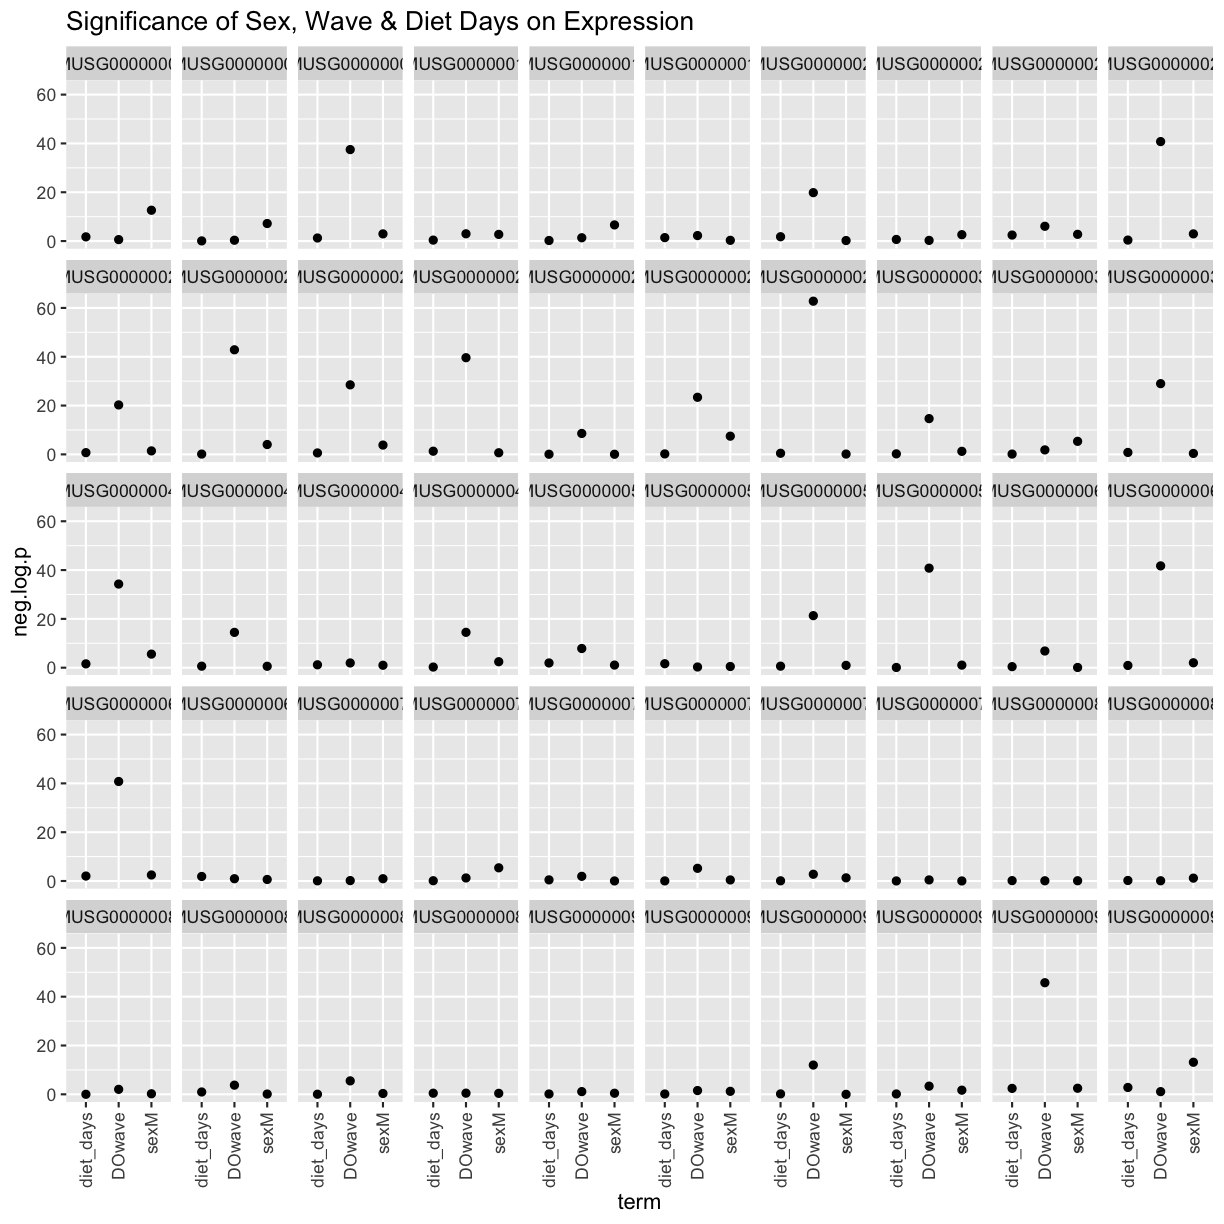
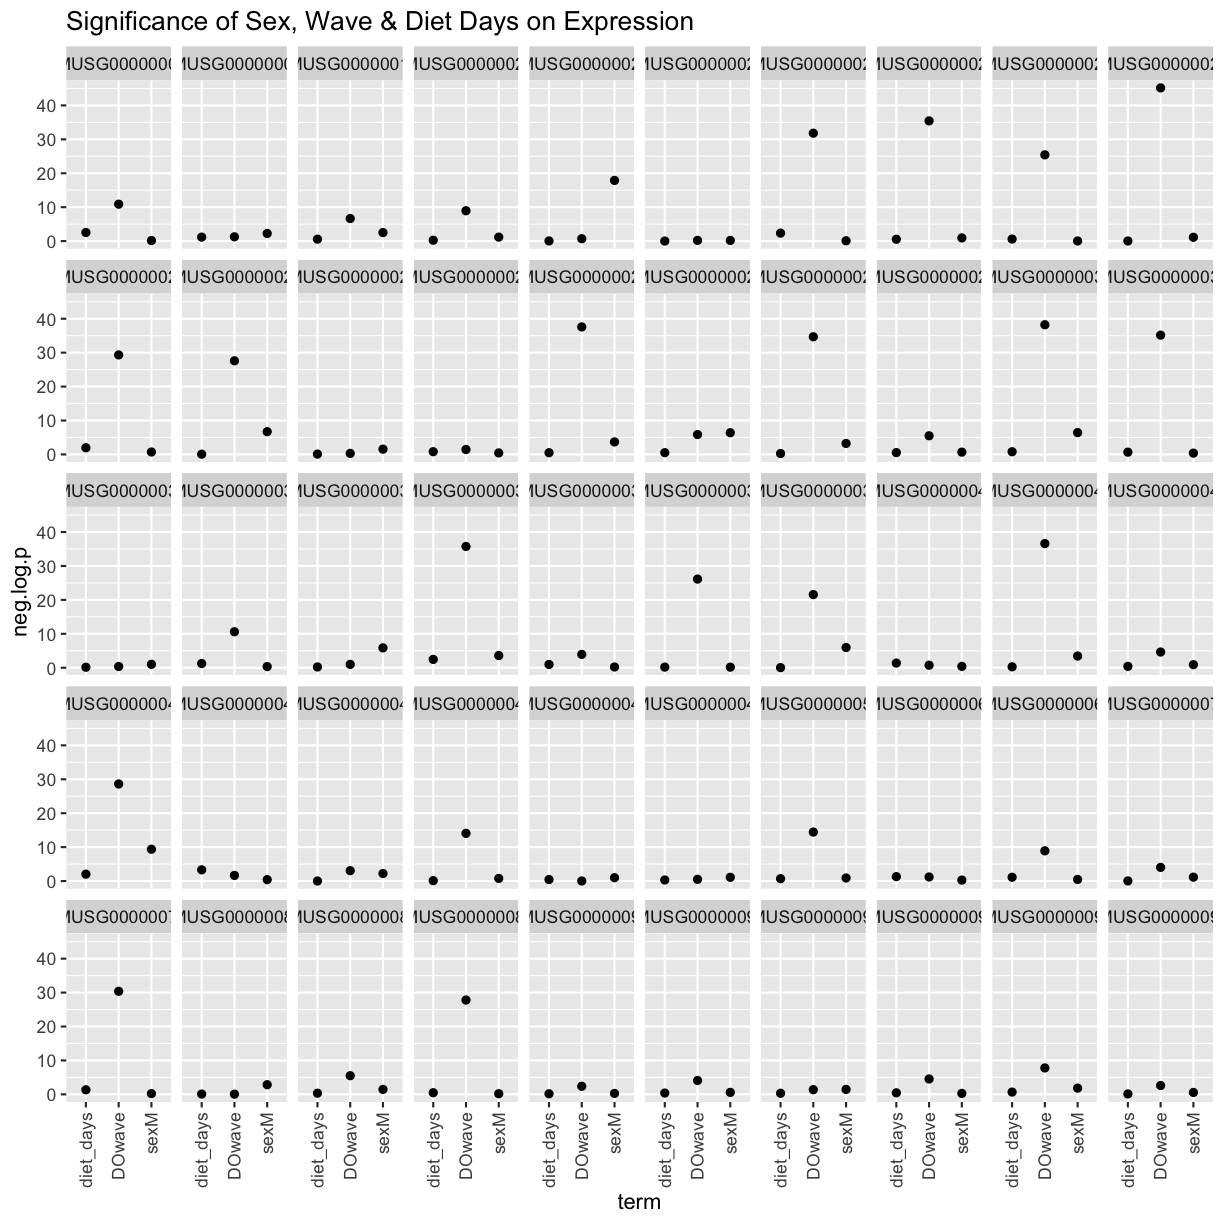
updating lesson 6 VIII

diff --git a/_episodes/06-map-many-eqtls.md b/_episodes/06-map-many-eqtls.md
@@ -66,65 +66,65 @@ sams <- sample(length(genes), 50, replace = FALSE, prob = NULL)
 genes <- genes[sams]
 
 gene.info <- dataset.islet.rnaseq$annots[genes,]
-rownames = NULL
+rownames(gene.info) = NULL
 kable(gene.info)
 ~~~
 {: .language-r}
 
 
 
-|                   |gene_id            |symbol        |chr |      start|        end| strand|     middle|nearest.marker.id |biotype              |module        |hotspot |
-|:------------------|:------------------|:-------------|:---|----------:|----------:|------:|----------:|:-----------------|:--------------------|:-------------|:-------|
-|ENSMUSG00000028256 |ENSMUSG00000028256 |Odf2l         |3   | 145.118589| 145.153915|      1| 145.136252|3_145121769       |protein_coding       |green         |NA      |
-|ENSMUSG00000021990 |ENSMUSG00000021990 |Spata13       |14  |  60.634001|  60.764556|      1|  60.699278|14_60705905       |protein_coding       |red           |NA      |
-|ENSMUSG00000025195 |ENSMUSG00000025195 |Dnmbp         |19  |  43.847967|  43.912392|     -1|  43.880180|19_43877848       |protein_coding       |darkturquoise |NA      |
-|ENSMUSG00000052056 |ENSMUSG00000052056 |Zfp217        |2   | 170.108643| 170.148103|     -1| 170.128373|2_170118266       |protein_coding       |magenta       |NA      |
-|ENSMUSG00000090487 |ENSMUSG00000090487 |Gm2888        |14  |   3.030002|   3.038762|      1|   3.034382|14_3040840        |protein_coding       |plum1         |NA      |
-|ENSMUSG00000019772 |ENSMUSG00000019772 |Vip           |10  |   5.639218|   5.647614|      1|   5.643416|10_5637668        |protein_coding       |paleturquoise |NA      |
-|ENSMUSG00000045114 |ENSMUSG00000045114 |Prrt2         |7   | 127.016771| 127.021211|     -1| 127.018991|7_127066421       |protein_coding       |grey          |NA      |
-|ENSMUSG00000097203 |ENSMUSG00000097203 |4732419C18Rik |8   | 123.744631| 123.754228|     -1| 123.749430|8_123694905       |lincRNA              |greenyellow   |NA      |
-|ENSMUSG00000042508 |ENSMUSG00000042508 |Dmtf1         |5   |   9.118801|   9.161776|     -1|   9.140288|5_9151068         |protein_coding       |brown         |NA      |
-|ENSMUSG00000023025 |ENSMUSG00000023025 |Larp4         |15  |  99.970074| 100.016351|      1|  99.993212|15_100012596      |protein_coding       |darkgreen     |NA      |
-|ENSMUSG00000064263 |ENSMUSG00000064263 |Gm1631        |2   |  71.719417|  71.730966|      1|  71.725192|2_71683802        |protein_coding       |grey          |NA      |
-|ENSMUSG00000083011 |ENSMUSG00000083011 |Gm12816       |4   | 112.955075| 112.956286|     -1| 112.955680|4_112905586       |pseudogene           |grey          |NA      |
-|ENSMUSG00000083339 |ENSMUSG00000083339 |Gm11693       |11  | 113.678530| 113.679331|      1| 113.678930|11_113679730      |pseudogene           |grey          |NA      |
-|ENSMUSG00000081929 |ENSMUSG00000081929 |Rps11-ps2     |11  | 116.382750| 116.383205|      1| 116.382978|11_116377446      |pseudogene           |grey          |NA      |
-|ENSMUSG00000090555 |ENSMUSG00000090555 |Gm8893        |12  | 103.817856| 103.822243|     -1| 103.820050|12_103826618      |pseudogene           |grey          |NA      |
-|ENSMUSG00000006019 |ENSMUSG00000006019 |Dhx34         |7   |  16.197147|  16.222037|     -1|  16.209592|7_16210236        |protein_coding       |black         |NA      |
-|ENSMUSG00000078601 |ENSMUSG00000078601 |Gm12525       |3   | 108.361551| 108.362256|      1| 108.361904|3_108353179       |antisense            |grey          |NA      |
-|ENSMUSG00000078952 |ENSMUSG00000078952 |Gm2373        |13  |  97.434970|  97.497007|      1|  97.465988|13_97466637       |lincRNA              |grey          |NA      |
-|ENSMUSG00000018845 |ENSMUSG00000018845 |Unc45b        |11  |  82.910550|  82.943403|      1|  82.926976|11_82833747       |protein_coding       |grey          |NA      |
-|ENSMUSG00000028137 |ENSMUSG00000028137 |Celf3         |3   |  94.478831|  94.492193|      1|  94.485512|3_94429795        |protein_coding       |black         |NA      |
-|ENSMUSG00000031270 |ENSMUSG00000031270 |4930513O06Rik |X   | 139.086243| 139.093405|      1| 139.089824|X_139084893       |protein_coding       |brown         |NA      |
-|ENSMUSG00000091423 |ENSMUSG00000091423 |Gm17509       |13  | 117.218701| 117.221075|     -1| 117.219888|13_117256471      |protein_coding       |grey          |NA      |
-|ENSMUSG00000070304 |ENSMUSG00000070304 |Scn2b         |9   |  45.117876|  45.130070|      1|  45.123973|9_45128094        |protein_coding       |grey          |NA      |
-|ENSMUSG00000019820 |ENSMUSG00000019820 |Utrn          |10  |  12.382188|  12.861735|     -1|  12.621962|10_12635805       |protein_coding       |saddlebrown   |NA      |
-|ENSMUSG00000062753 |ENSMUSG00000062753 |AI413582      |17  |  27.563575|  27.565749|     -1|  27.564662|17_27566804       |protein_coding       |red           |NA      |
-|ENSMUSG00000057672 |ENSMUSG00000057672 |Pkn1          |8   |  83.669762|  83.699179|     -1|  83.684470|8_83587702        |protein_coding       |black         |NA      |
-|ENSMUSG00000095601 |ENSMUSG00000095601 |Gm21085       |X   |  37.380028|  37.384493|      1|  37.382260|X_37366530        |protein_coding       |grey          |NA      |
-|ENSMUSG00000086794 |ENSMUSG00000086794 |Gm11642       |11  | 103.723950| 103.724532|      1| 103.724241|11_103724029      |processed_transcript |grey          |NA      |
-|ENSMUSG00000060467 |ENSMUSG00000060467 |Gm10080       |9   |  44.374595|  44.375209|     -1|  44.374902|9_44362716        |pseudogene           |grey          |NA      |
-|ENSMUSG00000022174 |ENSMUSG00000022174 |Dad1          |14  |  54.235479|  54.254104|     -1|  54.244792|14_54244226       |protein_coding       |blue          |NA      |
-|ENSMUSG00000020170 |ENSMUSG00000020170 |Frs2          |10  | 117.070129| 117.148474|     -1| 117.109302|10_117122171      |protein_coding       |saddlebrown   |NA      |
-|ENSMUSG00000029512 |ENSMUSG00000029512 |Ulk1          |5   | 110.784488| 110.810097|     -1| 110.797292|5_110843597       |protein_coding       |yellow        |NA      |
-|ENSMUSG00000000296 |ENSMUSG00000000296 |Tpd52l1       |10  |  31.332380|  31.445921|     -1|  31.389150|10_31301766       |protein_coding       |brown         |NA      |
-|ENSMUSG00000039233 |ENSMUSG00000039233 |Tbce          |13  |  13.997949|  14.039638|     -1|  14.018794|13_14120641       |protein_coding       |grey          |NA      |
-|ENSMUSG00000027361 |ENSMUSG00000027361 |Gabpb1        |2   | 126.627442| 126.676337|     -1| 126.651890|2_126678042       |protein_coding       |turquoise     |NA      |
-|ENSMUSG00000029780 |ENSMUSG00000029780 |Nt5c3         |6   |  56.882400|  56.923932|     -1|  56.903166|6_56826266        |protein_coding       |magenta       |NA      |
-|ENSMUSG00000030324 |ENSMUSG00000030324 |Rho           |6   | 115.931927| 115.938829|      1| 115.935378|6_116075585       |protein_coding       |darkred       |NA      |
-|ENSMUSG00000052423 |ENSMUSG00000052423 |B4galt3       |1   | 171.270328| 171.276896|      1| 171.273612|1_171295194       |protein_coding       |black         |NA      |
-|ENSMUSG00000096370 |ENSMUSG00000096370 |Gm21992       |19  |   4.742913|   4.811612|     -1|   4.777262|19_4628265        |protein_coding       |blue          |NA      |
-|ENSMUSG00000000056 |ENSMUSG00000000056 |Narf          |11  | 121.237253| 121.255856|      1| 121.246554|11_121200487      |protein_coding       |brown         |NA      |
-|ENSMUSG00000046167 |ENSMUSG00000046167 |Gldn          |9   |  54.286486|  54.341786|      1|  54.314136|9_54291137        |protein_coding       |grey          |NA      |
-|ENSMUSG00000062044 |ENSMUSG00000062044 |Lmtk3         |7   |  45.783738|  45.804144|      1|  45.793941|7_45720922        |protein_coding       |yellow        |NA      |
-|ENSMUSG00000046719 |ENSMUSG00000046719 |Nxph3         |11  |  95.509845|  95.514570|     -1|  95.512208|11_95489858       |protein_coding       |red           |NA      |
-|ENSMUSG00000079639 |ENSMUSG00000079639 |Rhox4a        |X   |  37.265338|  37.270136|      1|  37.267737|X_37171167        |protein_coding       |grey          |NA      |
-|ENSMUSG00000052392 |ENSMUSG00000052392 |Acot4         |12  |  84.038379|  84.044723|      1|  84.041551|12_84015575       |protein_coding       |grey          |chr2    |
-|ENSMUSG00000083483 |ENSMUSG00000083483 |Gm14044       |2   | 130.384883| 130.385329|     -1| 130.385106|2_130349094       |pseudogene           |grey          |NA      |
-|ENSMUSG00000078932 |ENSMUSG00000078932 |CN725425      |15  |  91.231578|  91.260885|      1|  91.246232|15_91251706       |protein_coding       |grey          |NA      |
-|ENSMUSG00000074796 |ENSMUSG00000074796 |Slc4a11       |2   | 130.684113| 130.697519|     -1| 130.690816|2_130559955       |protein_coding       |red           |NA      |
-|ENSMUSG00000084221 |ENSMUSG00000084221 |Hmgb1-ps4     |19  |   6.592602|   6.593236|     -1|   6.592919|19_6545203        |pseudogene           |grey          |NA      |
-|ENSMUSG00000028270 |ENSMUSG00000028270 |Gbp2          |3   | 142.620602| 142.638008|      1| 142.629305|3_142705784       |protein_coding       |magenta       |NA      |
+|gene_id            |symbol        |chr |      start|        end| strand|     middle|nearest.marker.id |biotype              |module         |hotspot |
+|:------------------|:-------------|:---|----------:|----------:|------:|----------:|:-----------------|:--------------------|:--------------|:-------|
+|ENSMUSG00000048865 |Arhgap30      |1   | 171.388954| 171.410298|      1| 171.399626|1_171385294       |protein_coding       |darkorange     |NA      |
+|ENSMUSG00000035910 |Dcdc2a        |13  |  25.056004|  25.210706|      1|  25.133355|13_25119107       |protein_coding       |brown          |chr7    |
+|ENSMUSG00000022536 |Glyr1         |16  |   5.013906|   5.049910|     -1|   5.031908|16_5060435        |protein_coding       |yellow         |NA      |
+|ENSMUSG00000014980 |Tsen15        |1   | 152.370735| 152.386688|     -1| 152.378712|1_152383052       |protein_coding       |turquoise      |NA      |
+|ENSMUSG00000022668 |Gtpbp8        |16  |  44.736768|  44.746363|     -1|  44.741566|16_44738910       |protein_coding       |green          |NA      |
+|ENSMUSG00000086968 |4933431E20Rik |3   | 107.888850| 107.896213|     -1| 107.892532|3_107868965       |processed_transcript |grey           |NA      |
+|ENSMUSG00000027720 |Il2           |3   |  37.120523|  37.125959|     -1|  37.123241|3_37117746        |protein_coding       |grey           |NA      |
+|ENSMUSG00000044948 |Wdr96         |19  |  47.737561|  47.919287|     -1|  47.828424|19_47839103       |protein_coding       |grey           |NA      |
+|ENSMUSG00000027570 |Col9a3        |2   | 180.597790| 180.622189|      1| 180.609990|2_180571050       |protein_coding       |magenta        |NA      |
+|ENSMUSG00000068015 |Lrch1         |14  |  74.754674|  74.947877|     -1|  74.851276|14_74853309       |protein_coding       |skyblue3       |NA      |
+|ENSMUSG00000021749 |Oit1          |14  |   8.348948|   8.378763|     -1|   8.363856|14_8142958        |protein_coding       |yellowgreen    |NA      |
+|ENSMUSG00000026103 |Gls           |1   |  52.163448|  52.233232|     -1|  52.198340|1_52214099        |protein_coding       |turquoise      |NA      |
+|ENSMUSG00000091277 |Gm1818        |12  |  48.554182|  48.559971|     -1|  48.557076|12_48556291       |protein_coding       |grey           |NA      |
+|ENSMUSG00000028882 |Ppp1r8        |4   | 132.826929| 132.843169|     -1| 132.835049|4_132829993       |protein_coding       |turquoise      |NA      |
+|ENSMUSG00000027506 |Tpd52         |3   |   8.928626|   9.004723|     -1|   8.966674|3_8963976         |protein_coding       |darkgreen      |NA      |
+|ENSMUSG00000037577 |Ephx3         |17  |  32.183770|  32.189549|     -1|  32.186660|17_32195476       |protein_coding       |yellow         |NA      |
+|ENSMUSG00000022565 |Plec          |15  |  76.170974|  76.232574|     -1|  76.201774|15_76166226       |protein_coding       |midnightblue   |NA      |
+|ENSMUSG00000032551 |1110059G10Rik |9   | 122.945089| 122.951000|     -1| 122.948044|9_122947512       |protein_coding       |turquoise      |NA      |
+|ENSMUSG00000028988 |Ctnnbip1      |4   | 149.518236| 149.566437|      1| 149.542336|4_149549101       |protein_coding       |grey60         |NA      |
+|ENSMUSG00000029632 |Ndufa4        |6   |  11.900373|  11.907446|     -1|  11.903910|6_11911091        |protein_coding       |grey           |NA      |
+|ENSMUSG00000040697 |Dnajc16       |4   | 141.760189| 141.790931|     -1| 141.775560|4_141789962       |protein_coding       |darkturquoise  |NA      |
+|ENSMUSG00000021250 |Fos           |12  |  85.473890|  85.477273|      1|  85.475582|12_85483011       |protein_coding       |darkolivegreen |NA      |
+|ENSMUSG00000074800 |Gm4149        |13  |  75.644864|  75.645226|      1|  75.645045|13_75598665       |pseudogene           |grey           |NA      |
+|ENSMUSG00000022449 |Adamts20      |15  |  94.270163|  94.465418|     -1|  94.367790|15_94372429       |protein_coding       |grey           |NA      |
+|ENSMUSG00000006301 |Tmbim1        |1   |  74.288247|  74.305622|     -1|  74.296934|1_74253876        |protein_coding       |grey           |NA      |
+|ENSMUSG00000096183 |Gm3727        |14  |   7.255889|   7.264714|     -1|   7.260302|14_7247401        |protein_coding       |grey           |NA      |
+|ENSMUSG00000036390 |Gadd45a       |6   |  67.035096|  67.037457|     -1|  67.036276|6_67037091        |protein_coding       |lightgreen     |NA      |
+|ENSMUSG00000037652 |Phc3          |3   |  30.899295|  30.969415|     -1|  30.934355|3_30935517        |protein_coding       |pink           |NA      |
+|ENSMUSG00000087679 |C330006A16Rik |2   |  26.136814|  26.140521|     -1|  26.138668|2_26091626        |lincRNA              |black          |NA      |
+|ENSMUSG00000086391 |1700042O10Rik |11  |  11.868123|  11.885321|      1|  11.876722|11_11852460       |antisense            |grey           |NA      |
+|ENSMUSG00000039116 |Gpr126        |10  |  14.402585|  14.545036|     -1|  14.473810|10_14453739       |protein_coding       |cyan           |NA      |
+|ENSMUSG00000039713 |Plekhg5       |4   | 152.072498| 152.115400|      1| 152.093949|4_152082355       |protein_coding       |purple         |NA      |
+|ENSMUSG00000039682 |Lap3          |5   |  45.493374|  45.512674|      1|  45.503024|5_45529351        |protein_coding       |salmon         |NA      |
+|ENSMUSG00000091844 |Gm8251        |1   |  44.055952|  44.061936|     -1|  44.058944|1_44093079        |protein_coding       |grey           |NA      |
+|ENSMUSG00000042737 |Dpm3          |3   |  89.259358|  89.267079|      1|  89.263218|3_89265523        |protein_coding       |yellow         |NA      |
+|ENSMUSG00000052310 |Slc39a1       |3   |  90.248172|  90.253612|      1|  90.250892|3_90257553        |protein_coding       |royalblue      |chr13   |
+|ENSMUSG00000097321 |1700028E10Rik |5   | 151.368709| 151.414083|      1| 151.391396|5_151520204       |lincRNA              |grey           |NA      |
+|ENSMUSG00000060044 |Tmem26        |10  |  68.723746|  68.782654|      1|  68.753200|10_68735167       |protein_coding       |grey           |NA      |
+|ENSMUSG00000044676 |Zfp612        |8   | 110.079764| 110.090181|      1| 110.084972|8_110136810       |protein_coding       |lightgreen     |NA      |
+|ENSMUSG00000040712 |Camta2        |11  |  70.669463|  70.688105|     -1|  70.678784|11_70661194       |protein_coding       |black          |NA      |
+|ENSMUSG00000046753 |Ccdc66        |14  |  27.482412|  27.508460|     -1|  27.495436|14_27610895       |protein_coding       |pink           |NA      |
+|ENSMUSG00000022656 |Pvrl3         |16  |  46.387706|  46.498525|     -1|  46.443116|16_46416309       |protein_coding       |turquoise      |NA      |
+|ENSMUSG00000097610 |A930012L18Rik |18  |  44.661665|  44.676271|      1|  44.668968|18_44532060       |lincRNA              |grey           |NA      |
+|ENSMUSG00000071519 |Prss3         |6   |  41.373795|  41.377678|     -1|  41.375736|6_41406513        |protein_coding       |darkgrey       |NA      |
+|ENSMUSG00000048701 |Ccdc6         |10  |  70.097121|  70.193200|      1|  70.145160|10_70202299       |protein_coding       |grey           |NA      |
+|ENSMUSG00000094574 |Gm15027       |X   |  13.179443|  13.179580|      1|  13.179512|X_13155556        |pseudogene           |grey           |NA      |
+|ENSMUSG00000000168 |Dlat          |9   |  50.634633|  50.659780|     -1|  50.647206|9_50632541        |protein_coding       |grey           |NA      |
+|ENSMUSG00000041073 |Nacad         |11  |   6.597823|   6.606053|     -1|   6.601938|11_6600691        |protein_coding       |purple         |NA      |
+|ENSMUSG00000029250 |Polr2b        |5   |  77.310147|  77.349324|      1|  77.329736|5_77264293        |protein_coding       |turquoise      |NA      |
+|ENSMUSG00000030031 |Kbtbd8        |6   |  95.117240|  95.129718|      1|  95.123479|6_95084044        |protein_coding       |turquoise      |NA      |
 
 ### Expression Data
 
@@ -192,18 +192,18 @@ tmp
 ~~~
 # A tibble: 200 × 8
 # Groups:   expression [50]
-   expression         data     model  term     estimate std.e…¹ stati…²  p.value
-   <chr>              <list>   <list> <chr>       <dbl>   <dbl>   <dbl>    <dbl>
- 1 ENSMUSG00000028256 <tibble> <lm>   (Interc…  0.459   0.491     0.935 3.51e- 1
- 2 ENSMUSG00000028256 <tibble> <lm>   sexM     -0.0991  0.0801   -1.24  2.17e- 1
- 3 ENSMUSG00000028256 <tibble> <lm>   DOwave   -0.542   0.0360  -15.0   2.47e-40
- 4 ENSMUSG00000028256 <tibble> <lm>   diet_da…  0.00740 0.00375   1.97  4.95e- 2
- 5 ENSMUSG00000021990 <tibble> <lm>   (Interc…  0.818   0.607     1.35  1.79e- 1
- 6 ENSMUSG00000021990 <tibble> <lm>   sexM     -0.302   0.0989   -3.05  2.43e- 3
- 7 ENSMUSG00000021990 <tibble> <lm>   DOwave    0.0281  0.0445    0.631 5.28e- 1
- 8 ENSMUSG00000021990 <tibble> <lm>   diet_da… -0.00574 0.00464  -1.24  2.17e- 1
- 9 ENSMUSG00000025195 <tibble> <lm>   (Interc… -1.80    0.551    -3.27  1.19e- 3
-10 ENSMUSG00000025195 <tibble> <lm>   sexM      0.188   0.0898    2.09  3.73e- 2
+   expression         data     model  term      estimate std.e…¹ stati…² p.value
+   <chr>              <list>   <list> <chr>        <dbl>   <dbl>   <dbl>   <dbl>
+ 1 ENSMUSG00000048865 <tibble> <lm>   (Interce…  0.628   0.620     1.01   0.311 
+ 2 ENSMUSG00000048865 <tibble> <lm>   sexM      -0.178   0.101    -1.76   0.0791
+ 3 ENSMUSG00000048865 <tibble> <lm>   DOwave    -0.0464  0.0454   -1.02   0.308 
+ 4 ENSMUSG00000048865 <tibble> <lm>   diet_days -0.00327 0.00474  -0.690  0.491 
+ 5 ENSMUSG00000035910 <tibble> <lm>   (Interce…  0.227   0.616     0.369  0.713 
+ 6 ENSMUSG00000035910 <tibble> <lm>   sexM       0.167   0.100     1.66   0.0972
+ 7 ENSMUSG00000035910 <tibble> <lm>   DOwave    -0.0359  0.0451   -0.795  0.427 
+ 8 ENSMUSG00000035910 <tibble> <lm>   diet_days -0.00172 0.00470  -0.365  0.715 
+ 9 ENSMUSG00000022536 <tibble> <lm>   (Interce… -0.188   0.512    -0.368  0.713 
+10 ENSMUSG00000022536 <tibble> <lm>   sexM      -0.0204  0.0834   -0.245  0.806 
 # … with 190 more rows, and abbreviated variable names ¹std.error, ²statistic
 ~~~
 {: .output}
